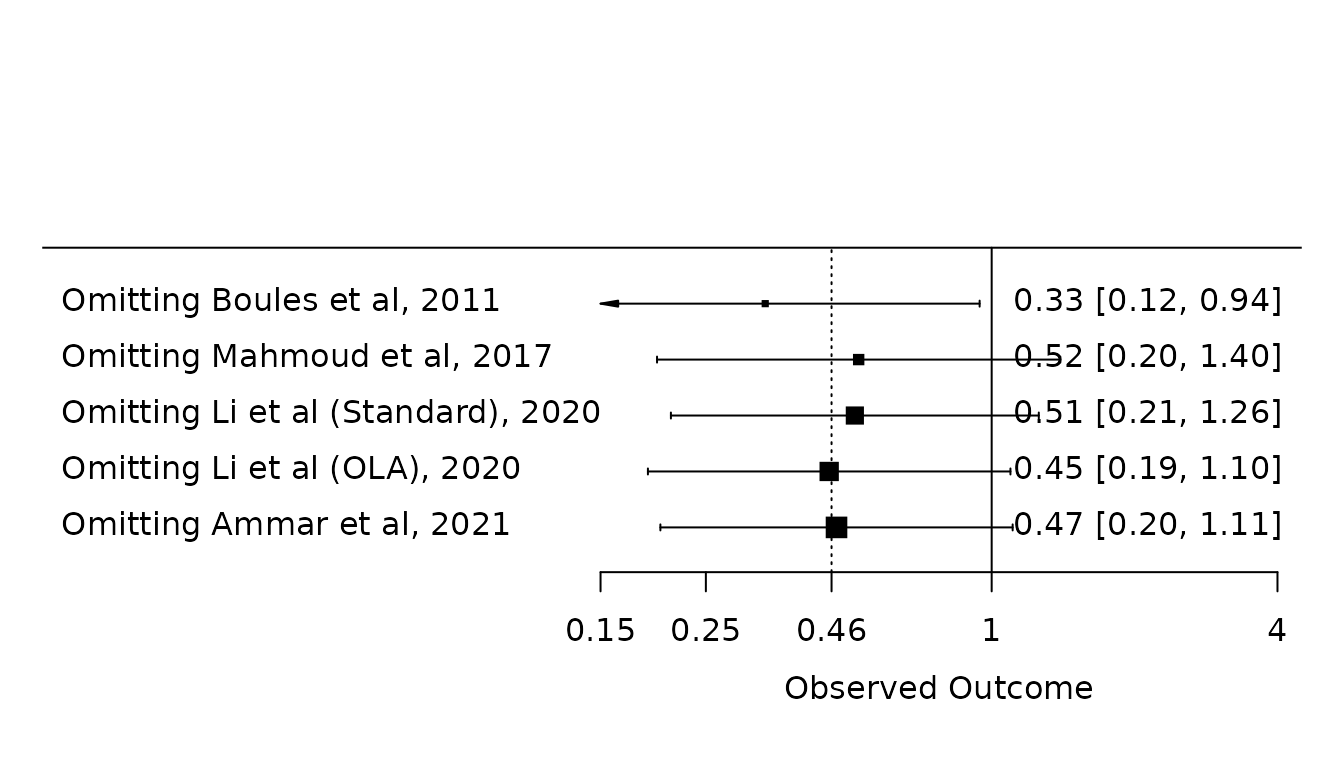
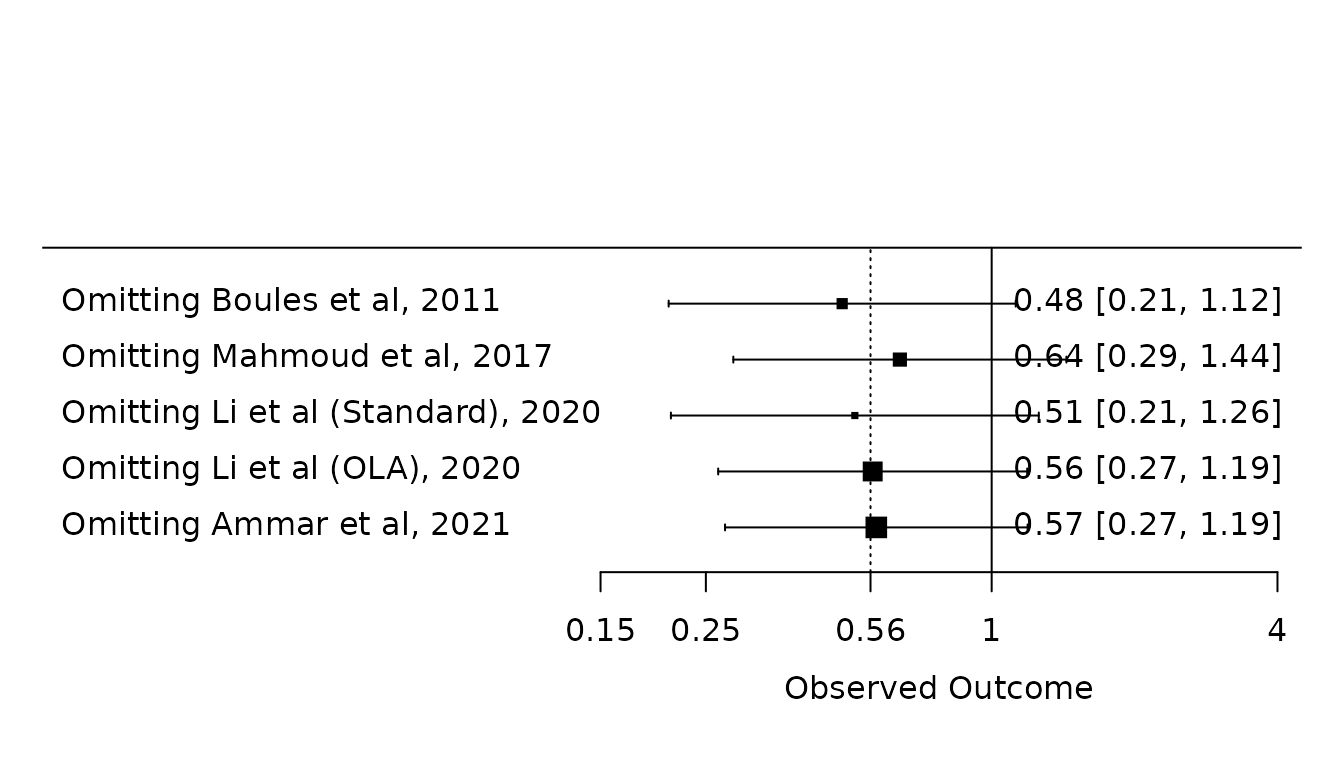
Built site for dcv: 0.0.0.9000@5d6032b

diff --git a/articles/dcv-atelectasis.html b/articles/dcv-atelectasis.html
@@ -80,10 +80,10 @@
 </h2>
 <div class="sourceCode" id="cb2"><pre class="downlit sourceCode r">
 <code class="sourceCode R"><span><span class="va">dat.atelectasis</span> <span class="op">&lt;-</span> <span class="fu"><a href="https://wviechtb.github.io/metafor/reference/escalc.html" class="external-link">escalc</a></span><span class="op">(</span>measure<span class="op">=</span><span class="st">"RR"</span>,</span>
-<span>              ai<span class="op">=</span><span class="fu"><a href="https://rdrr.io/r/base/c.html" class="external-link">c</a></span><span class="op">(</span> <span class="fl">3</span>,  <span class="fl">2</span>,  <span class="fl">1</span>,  <span class="fl">1</span>,  <span class="fl">0</span><span class="op">)</span>,</span>
-<span>              bi<span class="op">=</span><span class="fu"><a href="https://rdrr.io/r/base/c.html" class="external-link">c</a></span><span class="op">(</span><span class="fl">15</span>, <span class="fl">33</span>, <span class="fl">43</span>, <span class="fl">44</span>, <span class="fl">15</span><span class="op">)</span>,</span>
-<span>              ci<span class="op">=</span><span class="fu"><a href="https://rdrr.io/r/base/c.html" class="external-link">c</a></span><span class="op">(</span> <span class="fl">4</span>,  <span class="fl">6</span>,  <span class="fl">4</span>,  <span class="fl">2</span>,  <span class="fl">1</span><span class="op">)</span>,</span>
-<span>              di<span class="op">=</span><span class="fu"><a href="https://rdrr.io/r/base/c.html" class="external-link">c</a></span><span class="op">(</span><span class="fl">15</span>, <span class="fl">29</span>, <span class="fl">38</span>, <span class="fl">43</span>, <span class="fl">14</span><span class="op">)</span>,</span>
+<span>              ai<span class="op">=</span><span class="fu"><a href="https://rdrr.io/r/base/c.html" class="external-link">c</a></span><span class="op">(</span> <span class="fl">3</span>,  <span class="fl">2</span>,  <span class="fl">4</span>,  <span class="fl">1</span>,  <span class="fl">0</span><span class="op">)</span>,</span>
+<span>              bi<span class="op">=</span><span class="fu"><a href="https://rdrr.io/r/base/c.html" class="external-link">c</a></span><span class="op">(</span><span class="fl">15</span>, <span class="fl">33</span>, <span class="fl">40</span>, <span class="fl">44</span>, <span class="fl">15</span><span class="op">)</span>,</span>
+<span>              ci<span class="op">=</span><span class="fu"><a href="https://rdrr.io/r/base/c.html" class="external-link">c</a></span><span class="op">(</span> <span class="fl">4</span>,  <span class="fl">6</span>,  <span class="fl">6</span>,  <span class="fl">2</span>,  <span class="fl">1</span><span class="op">)</span>,</span>
+<span>              di<span class="op">=</span><span class="fu"><a href="https://rdrr.io/r/base/c.html" class="external-link">c</a></span><span class="op">(</span><span class="fl">15</span>, <span class="fl">29</span>, <span class="fl">36</span>, <span class="fl">43</span>, <span class="fl">14</span><span class="op">)</span>,</span>
 <span>              slab<span class="op">=</span><span class="fu"><a href="https://rdrr.io/r/base/c.html" class="external-link">c</a></span><span class="op">(</span><span class="st">"Boules et al, 2011"</span>,</span>
 <span>                     <span class="st">"Mahmoud et al, 2017"</span>,</span>
 <span>                     <span class="st">"Li et al (Standard), 2020"</span>,</span>
@@ -183,8 +183,8 @@
 <span><span class="co">#&gt; Model:     mixed-effects meta-regression model</span></span>
 <span><span class="co">#&gt; Predictor: standard error</span></span>
 <span><span class="co">#&gt; </span></span>
-<span><span class="co">#&gt; Test for Funnel Plot Asymmetry: z = -0.5600, p = 0.5755</span></span>
-<span><span class="co">#&gt; Limit Estimate (as sei -&gt; 0):   b = 0.0184 (CI: -2.8837, 2.9205)</span></span></code></pre></div>
+<span><span class="co">#&gt; Test for Funnel Plot Asymmetry: z = -0.4689, p = 0.6392</span></span>
+<span><span class="co">#&gt; Limit Estimate (as sei -&gt; 0):   b = -0.0647 (CI: -2.3644, 2.2349)</span></span></code></pre></div>
 </div>
 </div>
   </main><aside class="col-md-3"><nav id="toc"><h2>On this page</h2>

diff --git a/articles/second-outcomes.html b/articles/second-outcomes.html
@@ -98,7 +98,7 @@
 <h2 id="collated-results">Collated results<a class="anchor" aria-label="anchor" href="#collated-results"></a>
 </h2>
 <!-- html table generated in R 4.2.1 by xtable 1.8-4 package -->
-<!-- Tue Aug 16 16:32:50 2022 -->
+<!-- Mon Aug 22 14:51:44 2022 -->
 <table border="1" class="table">
 <caption align="bottom">
 OLV results
@@ -173,7 +173,7 @@ PaO2
 </td>
 </tr>
 </table>
-<!-- html table generated in R 4.2.1 by xtable 1.8-4 package --><!-- Tue Aug 16 16:32:50 2022 --><table border="1" class="table">
+<!-- html table generated in R 4.2.1 by xtable 1.8-4 package --><!-- Mon Aug 22 14:51:44 2022 --><table border="1" class="table">
 <caption align="bottom">
 TLV results
 </caption>
